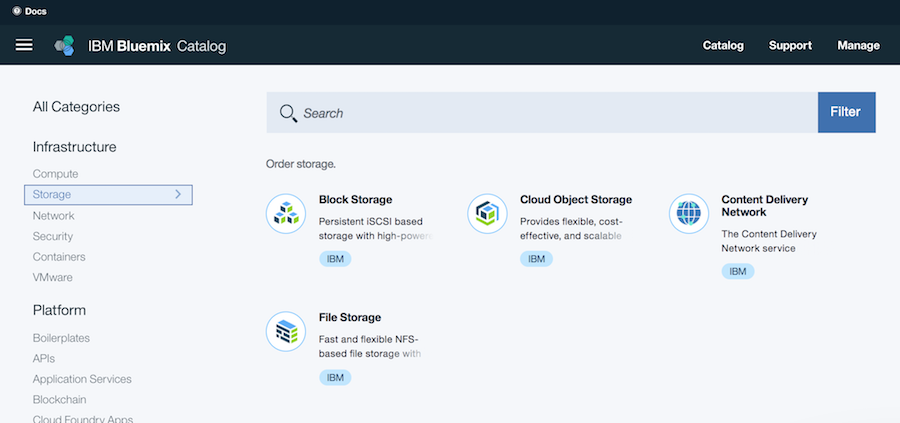
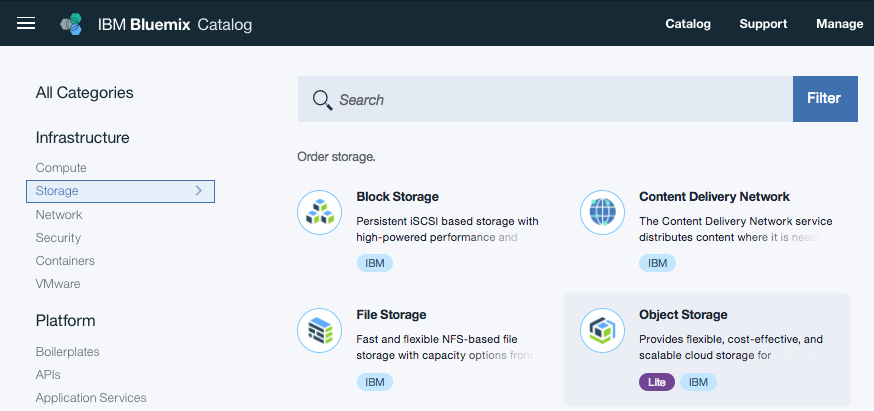
update solution3 to new COS

diff --git a/static-files-cdn.md b/static-files-cdn.md
@@ -20,16 +20,14 @@ Host and serve website assets (images, videos, documents) and user generated con
    * Manage CDN File Transfers
    * API Key
 
-   > These permissions are required to be able to view and use the Storage and CDN services in this guide
+   > These permissions are required to be able to view and use the Storage and CDN services.
 
 2. Ensure that you have access to Storage in the Infrastructure console
    * Go to https://control.bluemix.net
 
    * Confirm you can see the `Storage` section and the `Object Storage` section underneath.
 
-     
-
-![](images/solution3/Storage_Catalog.png)
+![](images/solution3/Infrastructure_Dashboard.png)
 
 ## Get the web application code
 
@@ -43,67 +41,87 @@ To start with, retrieve the application code:
    git clone https://github.ibm.com/frederic-lavigne/webapp-with-cos-and-cdn
    ```
 
+
+
 ## Create an Object Storage
+
 {: #create_cos}
 
 Cloud Object Storage provides flexible, cost-effective, and scalable cloud storage for unstructured data.
 
-### Create a Cloud Object Storage S3
+![](images/solution3/Storage_Catalog.png)
+
+
 
 1. Go in the Bluemix catalog
-
-2. Click on **Storage** and then **Cloud Object Storage**
-
-3. Select **Cloud Object Storage S3** and click **Create** and **Continue**.
-
-4. Review terms and click **Place Order**
-
-5. Go to the **Storage** page https://control.bluemix.net/storage/objectstorage to view the newly created storage.
-
-6. Update its description with your name to easily find the storage later.
-
-### Create a bucket
-
-1. Select the storage and select **Manage Buckets**
-
-2. Click the **+** button to add a bucket
-
-3. Set Resiliency/Location to **Cross Region - us**
-
-4. Set Storage Class to **Standard**
-
-5. Set the Bucket Name to **mywebsite**
-
+2. Click on **Storage** and then **Object Storage**
+3. Select **Cloud Object Storage** and click **Create**.
+4. Click **Create Bucket**.
+5. Set the Bucket Name to **mywebsite** and click **Create**.
    > Avoid dots (.) in the bucket name
+
 
 ## Upload files to a bucket
 {: #upload}
 
-In this section, we will use a desktop client to connect to the COS, upload files and configure permissions.
+In this section, we will use the command line tool **curl** to upload files to the bucket. 
 
-### Configure a desktop client
+1. **Login** to Bluemix using the CLI.
 
-By default the bucket and its files are not publicly available. We are going to change the permissions so that the file can be accessed through the Internet without authentication. You can communicate with COS using a [S3 compatible API](https://ibm-public-cos.github.io/crs-docs/api-reference,  [command line interface](https://ibm-public-cos.github.io/crs-docs/cli) or a [desktop client](https://ibm-public-cos.github.io/crs-docs/desktop-clients). Cyberduck is a popular, open-source, desktop client that makes it easy to work with S3 storages. To connect with Cyberduck:
+   ```sh
+   bx login 
+   ```
 
-1. Download an install **Cyberduck** from https://cyberduck.io/
-2. Add a new connection of type **S3 Storage**
-3. Find your storage access keys and endpoints in the Bluemix **Storage** page.
+2. Get a **token** from IAM.
 
-### Upload a file in the bucket
+   ```sh
+   bx iam oauth-tokens
+   ```
 
-1. Go inside the created bucket
+3. **Copy** the token from the output of the command above.
 
-2. Upload the files named **a-css-file.css**, **a-picture.png** and **a-video.mp4** from the **content** directory of the web application code you downloaded above. Upload the files to the root of the bucket.
+   ```
+   IAM token:  Bearer <token>
+   ```
 
-### Make the files publicly available
+4. **Set** the value of the token to an environment variable for easy access.
 
-1. Edit the permissions of the files and give **Everyone** the **READ** permission.
+   ```sh
+   export IAM_TOKEN=<REPLACE_WITH_TOKEN>
+   ```
 
-2. Access the files through your browser. The link will look like
+5. Upload the files named **a-css-file.css**, **a-picture.png** and **a-video.mp4** from the **content** directory of the web application code you downloaded above. Upload the files to the root of the bucket.
+  ```sh
+   cd content
+  ```
+  ```sh
+   
+   curl -X "PUT" "https://s3-api.us-geo.objectstorage.softlayer.net/YOUR_BUCKET_NAME/picture.png" \
+        -H "x-amz-acl: public-read" \
+        -H "Authorization: Bearer $IAM_TOKEN" \
+        -H "Content-Type: image/png" \
+        -T a-picture.png
+  ```
+  ```sh
+   curl -X "PUT" "https://s3-api.us-geo.objectstorage.softlayer.net/YOUR_BUCKET_NAME/a-css-file.css" \
+        -H "x-amz-acl: public-read" \
+        -H "Authorization: Bearer $IAM_TOKEN" \
+        -H "Content-Type: text/css" \
+        -T a-css-file.css
+  ```
+  ```sh
+   curl -X "PUT" "https://s3-api.us-geo.objectstorage.softlayer.net/YOUR_BUCKET_NAME/a-video.mp4" \
+        -H "x-amz-acl: public-read" \
+        -H "Authorization: Bearer $IAM_TOKEN" \
+        -H "Content-Type: video/mp4" \
+        -T a-video.mp4
+  ```
+6. Access the files through your browser. The link will look like
 
-   http://s3-api.us-geo.objectstorage.softlayer.net/your-bucket-name/your-filename
+   http://s3-api.us-geo.objectstorage.softlayer.net/YOUR_BUCKET_NAME/picture.png
 
-   > This link is for a cross-region bucket in the US
+
+
 
 ## Make the files globally available with a CDN
 
